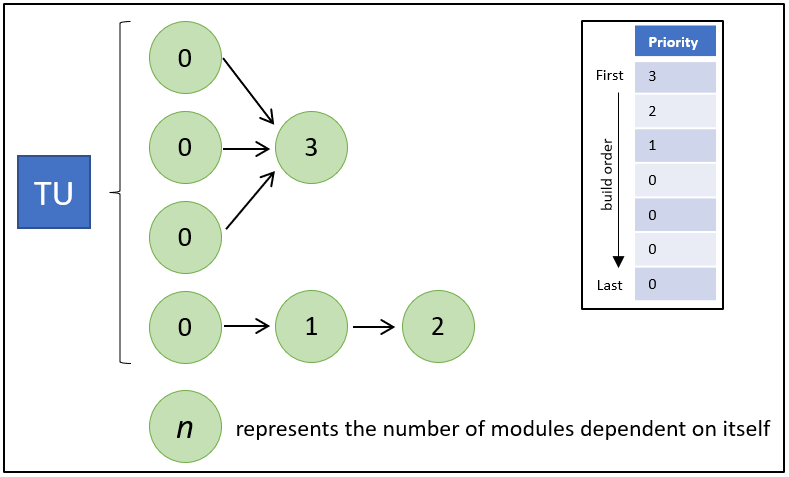
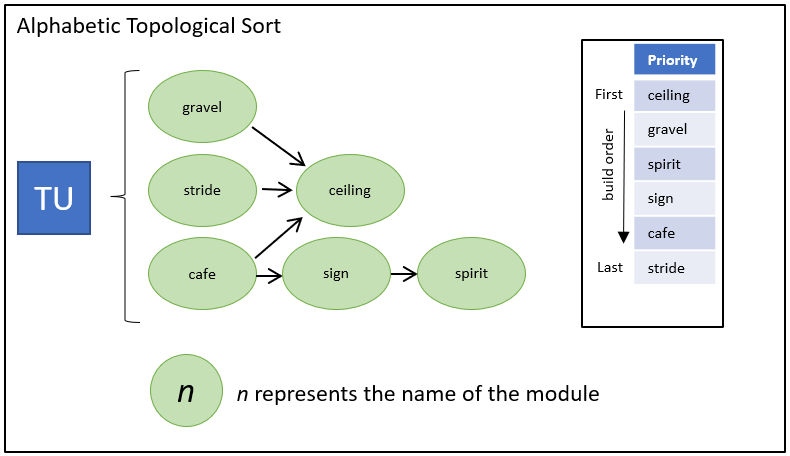
edits

Changed region(s): [[0.0, 0.0, 1.0, 1.0], [0.73, 0.2763, 0.9125, 0.7368], [0.0, 0.307, 0.1217, 0.5219]]

diff --git a/README.md b/README.md
@@ -15,6 +15,11 @@ A daemon that can serve as a micro-build system designed to manage modules will 
 - The build daemon must be accessible with a single flag.
 
 ---
+## Scope
+
+Work will focus on parallel unix builds using traditional Clang modules and C++ standard modules.
+
+---
 ## Project Details
 
 The project will be split into three main phases and focus on providing support to parallel build on unix systems.
@@ -75,26 +80,6 @@ $ clang++ -### --module-build-daemon foo.cpp bar.cpp -o test
 "ld" ... "-o" "test" ... "/tmp/foo-66a77d.o" "/tmp/bar-73584c.o" ...
 ```
 
-```cpp
-// apple/llvm-project driver.cpp
-
-int clang_main()
-	if (Args.size() >= 2 && StringRef(Args[1]).startswith("-cc1"))
-		return ExecuteCC1Tool()
-
-static int ExecuteCC1Tool()
-	if (Tool == "-cc1")
-		return cc1_main()
-	if (Tool == "-cc1depscand")
-		return cc1depscand_main()
-	if (Tool == "-cc1depscan")
-		return cc1depscan_main()
-
-	// addition
-	if (Tool == "-cc1modbuildd")
-		return cc1modbuildd_main()
-```
-
 > 5. Execute
 
 Compilation is executed.
@@ -102,28 +87,51 @@ Compilation is executed.
 ---
 **PHASE 2: Setup build daemon infrastructure**
 
-The goal of phase 2 is to implement the boiler plate and infrastructure required to develop the build daemon's core functionality. This includes an outline of the build deamon, anything requiried to spawn the deamon with `--deamon-build`, ability for clang invocations to register with the deamon, and a mechanism to terminate the deamon.
+The goal of phase 2 is to implement the boiler plate and infrastructure required to develop the build daemon's core functionality. This includes the ability to spawn the deamon with `-cc1modbuildd`, ability for clang invocations to register with the deamon, and a mechanism to terminate the deamon.
 
-There is an existing daemon implementation in a downstream fork (https://github.com/apple/llvm-project/blob/next/clang/tools/driver/cc1depscan_main.cpp) that can be used to speed up phase 2 develoment.
+There is an existing daemon implementation that can scan file dependencies in a downstream fork (https://github.com/apple/llvm-project/blob/next/clang/tools/driver/cc1depscan_main.cpp) that will be used to help phase 2 develoment.
+
+THOUGHT: To prevent duplicate code between `cc1depscand` and `cc1modbuildd` I think it would be a good idea to move common deamon functionality out of `cc1depscan*` files to another location. Perhaps a llvm-project/clang/tools/daemon direcotry could be created.
+
+> Daemon Details
+- The IPC mechanism used to comunicate with the daemon will be unix sockets
+	- NOTE: Windows is in the process of supporting unix sockets 
+		- (https://devblogs.microsoft.com/commandline/af_unix-comes-to-windows/)
 
 > Initialization
 
-When `--module-build-daemon` is passed to the clang driver it will be fowarded along to each clang invocation. The clang invocation will preprocess a translation unit then look for the running process: `clang-build-daemon`. If `clang-build-daemon` exists the clang invocation will register with the daemon. If `clang-build-daemon` does not exist the clang invocation will first initialize `clang-build-daemon` then register with the running process.
+When `--module-build-daemon` is passed to the clang driver `-cc1modbuildd` will be included as the first flag of each clang invocation. The clang invocation will preprocess a translation unit then look for a running daemon. If the daemon exists the clang invocation will register with it. If the daemon does not exist the clang invocation will first initialize the deamon then register with it.
 
 ```cpp
-if (clang-build-daemon == running) {
-	register(translationUnit);
-} else {
-	startDeamon();
-	register(translationUnit);
-}
+// driver.cpp
+
+int clang_main()
+	if (Args.size() >= 2 && StringRef(Args[1]).startswith("-cc1"))
+		return ExecuteCC1Tool()
+
+static int ExecuteCC1Tool()
+	if (Tool == "-cc1modbuildd")
+		return cc1modbuildd_main()
+```
+
+```cpp
+// cc1modbuildd_main.cpp
+
+int cc1modbuildd_main()
+
+	bool NoSpawnDaemon = (bool)Sharing.Path
+	auto Daemon = NoSpawnDaemon
+                    ? Daemon::connectToDaemonAndShakeHands(Path)
+                    : Daemon::constructAndShakeHands(Path, Exec, Sharing)
+
+	// register with daemon
+	CC1DaemonProtocol Comms(*Daemon)
+	Comms.putCommand(WorkingDirectory, OldArgs, Mapping)
 ```
 
 > Termination
 
-The build deamon will automatically terminate after "sitting empty" for a specified amount of time. For example, if a clang invocations de-registers with the deamon leaving it with zero registered clang invocations. The deamon will wait `n` seconds before terminating itself. By using a time limit the deamon will not be tied to a single executable and may persist across a large project. 
-
-THOUGHT: The downside to terminating after a specified amount of time is that there will be `n` seconds of pointless resource usage. I am particularly interested in hearing the communities thoughts on the best way to terminate the build deamon. It feels like there has to be a better way.
+The build deamon will automatically terminate after "sitting empty" for a specified amount of time. For example, if a clang invocations de-registers with the daemon leaving it with zero registered clang invocations. The deamon will wait `n` seconds before terminating itself. By using a time limit the deamon will not be tied to a single executable and may persist across a large project. 
 
 ---
 **PHASE 3: Build System**
@@ -132,18 +140,35 @@ The goal of phase 3 is to implement the core functionality of the build deamon s
 
 > Scanning
 
-The deamon will utilize the tool `clang-scan-deps` to conduct dependency scans for each translation unit registered with the deamon. Once scanned, each translation unit's dependency graph, will be merged when possible to create a project wide dependency graph. While modules may not survive the lifetime of the deamon the dependency graph will and can be used to efficiently schedule builds.
+While `cc1depscan_main.cpp` implements a scanning daemon it is limited to file dependencies. So, the build deamon will base it's scanning on the tool `clang-scan-deps`. `clang-scan-deps` can be integrated into the build daemon by relying on `class FullDeps`.
 
-Bellow are two example of scanning. In the first example TU1's dependency graph is a subset of TU2's dependency graph. The deamon, after scanning TU2 would realize that the dependency graph of TU1 is fully encompased by TU2's dependency graph and would free it from memory. In example two, after scanning TU2's dependency graph the deamon would merge the two dependency graphs.<br>
-<img src="scanning_1.PNG" width="50%" height="50%">
-<br>
-<img src="scanning_2.PNG" width="80%" height="80%">
+`FullDeps` or more specifically the `FullDeps` attribute `Modules` will represet all dependencies for the daemon. The scans for each translation unit will be merged into `Modules` using the public method `void mergeDeps(StringRef Input, TranslationUnitDeps TUDeps, size_t InputIndex)`.
+
+```cpp
+// ClangScanDeps.cpp
+
+class FullDeps
+	public:
+		void mergeDeps(StringRef Input, TranslationUnitDeps TUDeps, size_t InputIndex)
+	private:
+		std::unordered_map<IndexedModuleID, ModuleDeps, IndexedModuleIDHasher> Modules;
+
+struct ModuleDeps
+{
+	// module ID
+	// collection of paths to direct dependencies
+}
+```
+
+NOTE: This requires moving `class FullDeps` to its own file.
 
 > Scheduling & Building
 
-Builds will be based on priority list based scheduling. Each module will be ranked based on how many other modules are dependent on itself and built acordingly.
+Builds will be based on a deterministic topological sort. By making the topological sort deterministic it will be easier to resolve issues. However, topological sorts are not inherently deterministic so a heuristic must be used to chose an order. One possible heuristic is to order equivalent modules alphabetically.
 
 <img src="scheduling.PNG" width="50%" height="50%">
+
+THOUGHT: It is possible that the benefits of having a deterministic order are outways by the performance penality of creating that order. I need to do more research on deterministic topological sorts. Also, topological sort works well when scheduling for an isolated translation unit, but in reality many translation units will be processed in parallel. The topological sort needs to take into account all translation units when prioritizing modules.
 
 > Cache management
 
@@ -156,11 +181,11 @@ The cache invalidator will consider several different metrics when deciding how 
 	- How long has it been since the module was last required?
 - How large is the module?
 
-The goal of the build deamon is to minimize build time. Finding the right equation will take some experimentation but the basic idea is to assign a score to each prebuilt module including the one just built and maximize the total score of the cache. For example, `score = number_of_times_built - time_since_last_build` could be used to prioritize modules. In the image bellow the deamon has completed building a module and places it in the cache by removing two other modules increasing the cache score by two.
+The goal of the build deamon is to minimize build time. Finding the right heuristic will take some experimentation but the basic idea is to assign a score to each prebuilt module including the one just built and maximize the total score of the cache. For example, `score = number_of_times_built - time_since_last_build` could be used to prioritize modules. In the image bellow the deamon has completed building a module and places it in the cache by removing two other modules increasing the cache score by two.
 
 <img src="caching.PNG" width="50%" height="50%" border="1">
 
-THOUGHT: I am not sure if cache should be RAM or disk. RAM would obviously be faster but disk could hold more modules. I think a combination of the two is probably the right answer but that implementaition may be out of scope for GSoC. 
+THOUGHT: I am not sure if cache should be RAM or disk. RAM would obviously be faster but disk could hold more modules.
 
 ---
 ## Timeline
@@ -172,15 +197,16 @@ Review of official timeline
 
 Project Timeline & Milestones
 
+- Phase 0: Present to May 28
+	1. Iron out implementation and design details
 - Phase 1: May 29 - June 11 (2 weeks)
     1. Add `--module-build-daemon` flag to clang so that it is recognized as a valid flag
-	2. Make sure clang driver properly handles `--build-deamon` flag
+	2. Make sure clang driver properly handles `--module-build-daemon` flag
 - Phase 2: June 12 - July 2 (3 weeks)
-	1. Create skeleton build daemon that can be initialized with --module-build-daemon and shut down at end of building or when a fatal eror occurs
-	2. Implimint ability for clang instances to register and unregister with the deamon. Daemon should maintain a running list of clang invocations building. 
+	1. Create skeleton build daemon that can be initialized with `-cc1modbuildd` and shut down
+	2. Implimint ability for clang instances to register and unregister with the deamon. Daemon should maintain a running list of clang invocations registered. 
 - Phase 3: July 3 - August 28 (8 weeks)
-    1. implement ability for daemon to scan dependencies of registered clang instances using clang-scan-deps. Results will be saved to a log file on a per invocation basis but then forgotten. This is to make sure that scanning can be done correctly
-	2. Implement ability for daemon to merge results from each dependency scan. And maintain dependency graph for lifetime of the build
+    1. Implement ability for daemon to scan dependencies of registered clang instances using clang-scan-deps. Results will be saved to a log file on a per invocation basis. This is to make sure that scanning can be done correctly
 	3. Implement scheduling strategy. No modules will actually be built but rather simulated. Log file will output current version of dependency graph and associated build schedule
 	4. Implement ability for daemon to spawn clang invocations to build modules. For the sake of simplicity at this point all built modules will be stored on disk for the lifetime of the build
 	5. Implement cache management strategy
